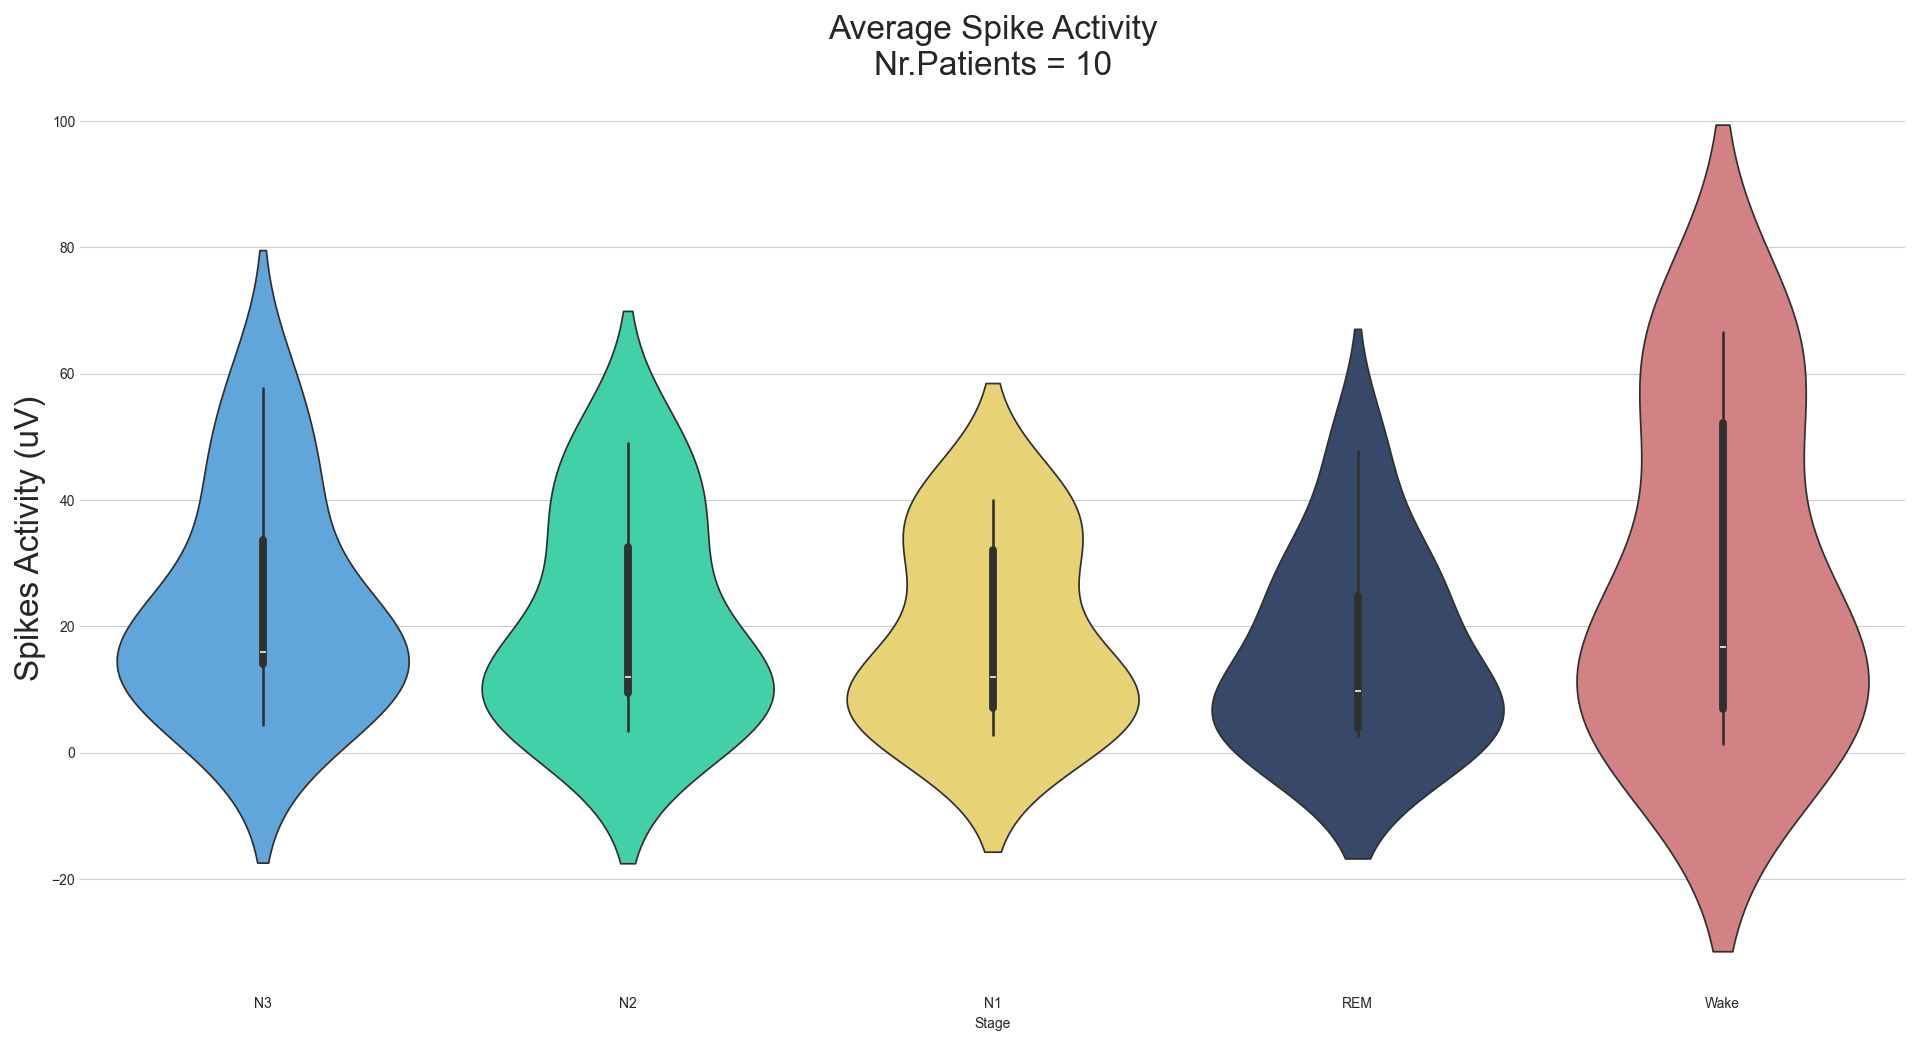
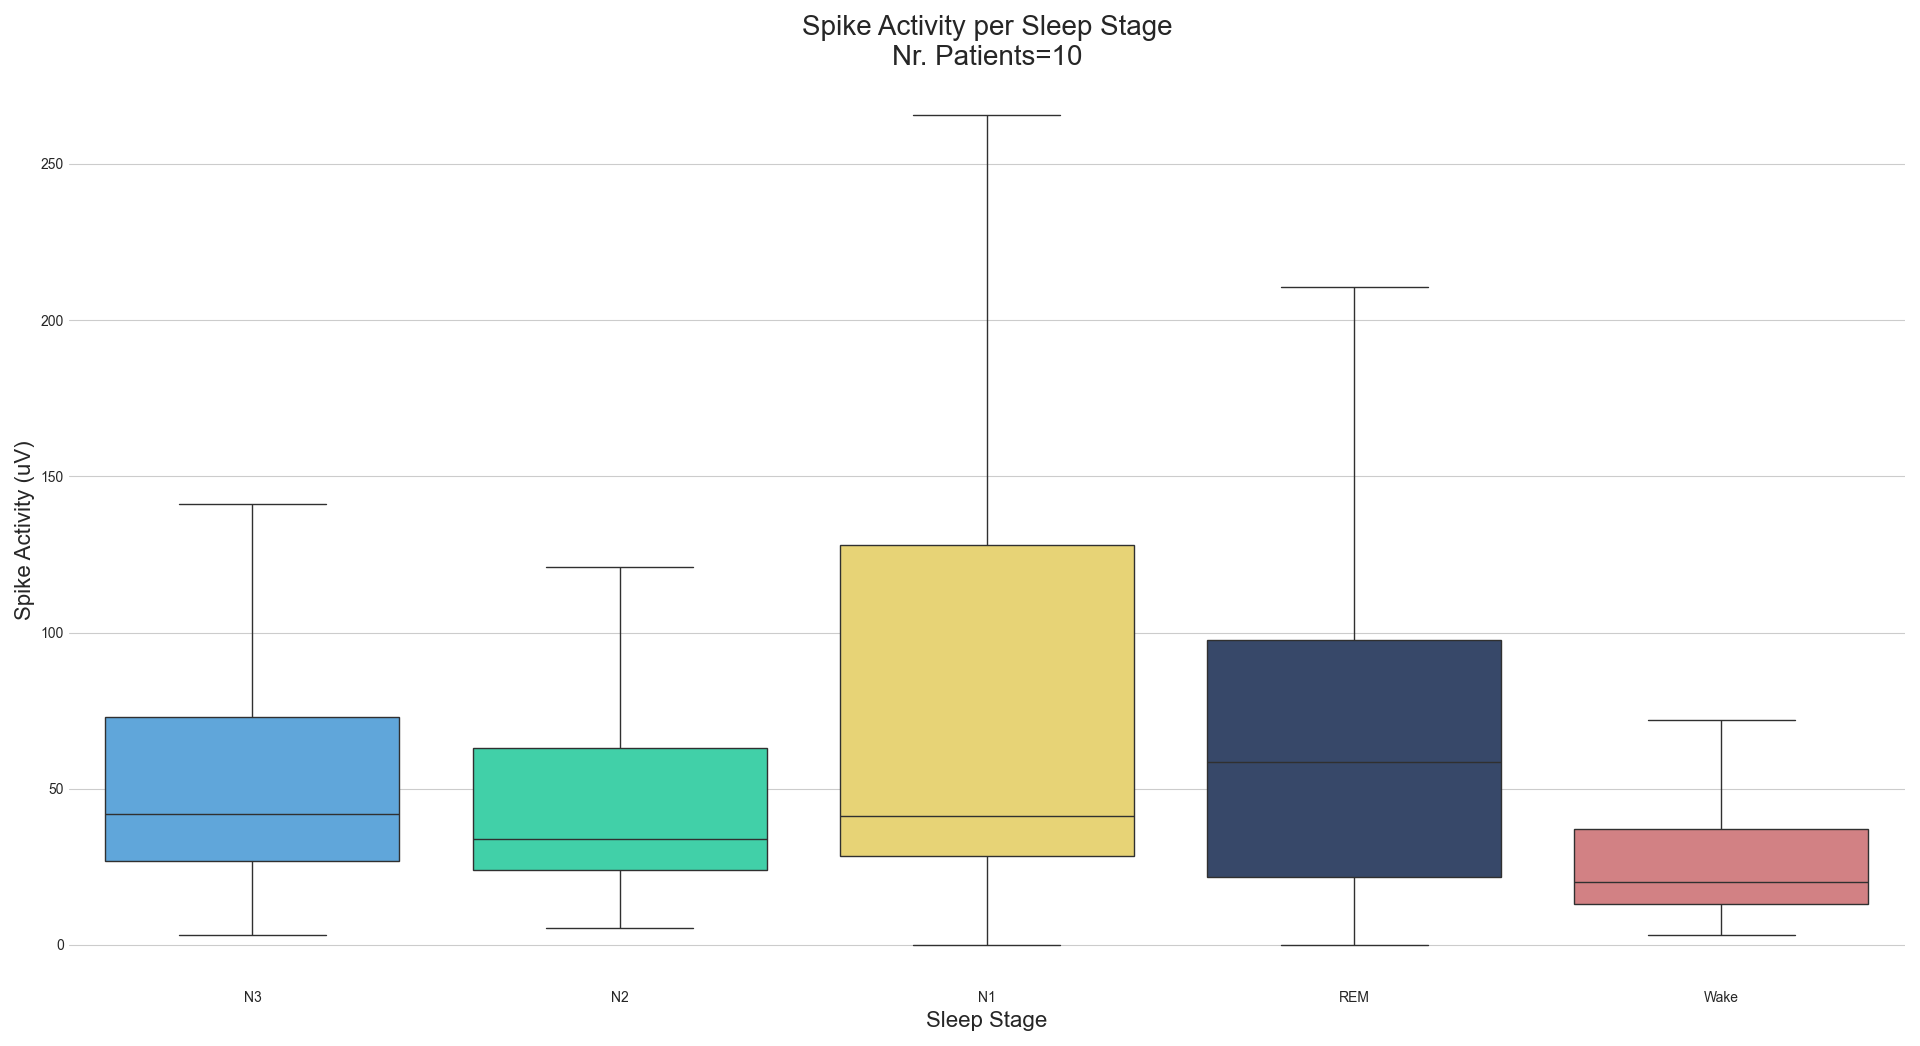
add plots and images for occ.rate and activity

diff --git a/pyeeg_toolbox/persyst/an_ilaes_2025.py b/pyeeg_toolbox/persyst/an_ilaes_2025.py
@@ -34,7 +34,7 @@ class Spike_Activity_Analyzer:
 
     def read_patient_spike_data(self):
         nr_pats = len(self.pats_ls)
-        # Concatenate data from all patients, scale amplitude for each patient
+        # Concatenate data from all patients
         spike_data_df = pd.DataFrame()
         for pdata_fn in self.pats_ls:
             data_fpath = self.characterization_datapath / f"{pdata_fn}_AvgSpikeWdwActivity.csv"
@@ -65,6 +65,24 @@ class Spike_Activity_Analyzer:
         spike_data_df.reset_index(drop=True, inplace=True)
 
         return spike_data_df
+
+    def read_stages_duration_and_spike_rates(self):
+        # Concatenate data from all patients
+        nr_pats = len(self.pats_ls)
+        
+        spike_occ_rate_pats_ls = [pn + "_StageSpikeOccurrenceRate.csv" for pn in self.pats_ls]
+        stage_duration_spike_rate_df = pd.DataFrame()
+        for pdata_fn in spike_occ_rate_pats_ls:
+            data_fpath = stages_spikes_duration_rate_datapath / pdata_fn
+            #print(data_fpath)
+            try:
+                pdata_df = pd.read_csv(data_fpath)
+                stage_duration_spike_rate_df = pd.concat([stage_duration_spike_rate_df, pdata_df])
+            except:
+                print(f"File {pdata_fn} not found")
+
+        stage_duration_spike_rate_df.reset_index(drop=True, inplace=True)
+        return stage_duration_spike_rate_df
 
     def handle_patient_outliers(self, spike_data_df:pd.DataFrame=None):
 
@@ -127,87 +145,6 @@ class Spike_Activity_Analyzer:
         return scaled_spike_data_df
 
 
-    def plot_sleep_stage_durations(pats_ls:list[str]=None, images_output_path:str=None):
-        nr_pats = len(pats_ls)
-        spike_occ_rate_pats_ls = [pn + "_StageSpikeOccurrenceRate.csv" for pn in pats_ls]
-        stage_spike_data = pd.DataFrame()
-        for pdata_fn in spike_occ_rate_pats_ls:
-            data_fpath = stages_spikes_duration_rate_datapath / pdata_fn
-            #print(data_fpath)
-            try:
-                pdata_df = pd.read_csv(data_fpath)
-                stage_spike_data = pd.concat([stage_spike_data, pdata_df])
-            except:
-                print(f"File {pdata_fn} not found")
-
-        #sleep_ref_img_path = Path("C:\\Users\\HFO\\Development\\pyeeg_toolbox\\pyeeg_toolbox\\persyst\\SleepStages_Reference.png")
-        sleep_ref_img_path = os.getcwd()+'/pyeeg_toolbox/persyst/SleepStages_Reference.png'
-        sleep_ref_img= Image.open(sleep_ref_img_path)
-        rsz_ratio = 2
-        img_rsz = (int(sleep_ref_img.size[0]/rsz_ratio), int(sleep_ref_img.size[1]/rsz_ratio))
-        sleep_ref_img = sleep_ref_img.resize(img_rsz)
-
-        fig, axs = plt.subplots(1, 1, figsize=FIGSIZE)
-        
-        to_plot_stage_names = ['N3', 'N2', 'N1', 'REM']
-        sum_stages_dur_mins = []
-        for stage_name in to_plot_stage_names:
-            stage_sel = stage_spike_data.Stage==stage_name
-            assert stage_sel.sum() == nr_pats, "More than one entry per patient"
-            sum_stages_dur_mins.append(stage_spike_data.StageDurM[stage_sel].sum())
-            pass
-
-        to_plot_stages_colors = [self.stages_colors[k] for k in to_plot_stage_names]
-
-        sum_stages_dur_perc = (np.array(sum_stages_dur_mins)/np.sum(sum_stages_dur_mins))*100
-        wedgeprops = {"edgecolor" : "white", 'linewidth': 5, 'antialiased': True}
-        
-        patches, texts, pcts = axs.pie(x=sum_stages_dur_perc, labels=to_plot_stage_names, colors=to_plot_stages_colors, wedgeprops=wedgeprops, autopct='%.0f%%', textprops={'fontsize':24, 'color':"w", 'weight':'bold'}, startangle=-200)
-        for i, patch in enumerate(patches):
-            texts[i].set_color(patch.get_facecolor())
-        axs.set_ylabel("Relative Duration of Sleep Stages (%)", fontsize=24)
-        axs.set_title(f"Proportion of summed duration of Sleep Stages\nNr.Patients = {nr_pats}", fontsize=24, color='black')
-        pass
-        #plt.legend(loc='lower right', fontsize=24)
-
-        # Overlay image on plot
-        im_width, im_height = sleep_ref_img.size
-        bbox = fig.get_window_extent() 
-        fig.figimage(sleep_ref_img, xo=int(bbox.x1-im_width/2), yo=int(bbox.y1-im_height/2), zorder=3, alpha=.7, origin='upper')
-
-        plt.get_current_fig_manager().full_screen_toggle()
-        plt.tight_layout()
-        plt.savefig(images_output_path / "Duration_Of_Sleep_Stages.png")
-        #plt.waitforbuttonpress()
-        plt.close()
-
-
-    def plot_spike_occ_rate(self, spike_data_df:pd.DataFrame=None):
-        nr_pats = len(pats_ls)
-        spike_occ_rate_pats_ls = [pn + "_StageSpikeOccurrenceRate.csv" for pn in pats_ls]
-        stage_spike_data = pd.DataFrame()
-        for pdata_fn in spike_occ_rate_pats_ls:
-            data_fpath = stages_spikes_duration_rate_datapath / pdata_fn
-            #print(data_fpath)
-            try:
-                pdata_df = pd.read_csv(data_fpath)
-                stage_spike_data = pd.concat([stage_spike_data, pdata_df])
-            except:
-                print(f"File {pdata_fn} not found")
-
-        fig, axs = plt.subplots(1, 1, figsize=FIGSIZE)
-        assert nr_pats == len(stage_spike_data.PatID.unique()), "More than one entry per patient"
-        sns.violinplot(data=stage_spike_data, x='Stage', y='SpikeOccRate', hue='Stage', palette=self.stages_colors, ax=axs)
-        axs.set_ylabel("Spikes Activity (uV)", fontsize=24)
-        axs.set_title(f"Average Spike Activity\nNr.Patients = {nr_pats}", fontsize=24)
-
-        plt.get_current_fig_manager().full_screen_toggle()
-        plt.tight_layout()
-        plt.savefig(images_output_path / "Average_Spike_Activity.png")
-        #plt.waitforbuttonpress()
-        plt.close()
-
-
     def hypothesis_test_soz_vs_nonsoz(self, spike_data_df:pd.DataFrame=None):
 
         nr_pats = len(spike_data_df.Patient.unique())
@@ -240,7 +177,7 @@ class Spike_Activity_Analyzer:
         plt.get_current_fig_manager().full_screen_toggle()
         plt.suptitle(f"Spike Activity in SOZ vs. Non-SOZ\nNr. Patients={nr_pats}")
         plt.tight_layout()
-        plt.savefig(images_output_path / "Spike_Activity_SOZ_vs_NonSOZ_Hypothesis_Tests.png")
+        plt.savefig(self.images_output_path / "Spike_Activity_SOZ_vs_NonSOZ_Hypothesis_Tests.png")
         #plt.waitforbuttonpress()
         plt.close()
 
@@ -355,23 +292,105 @@ class Spike_Activity_Analyzer:
         plt.get_current_fig_manager().full_screen_toggle()
         plt.suptitle(f"Prediction of SOZ\nNr. Patients={nr_pats}")
         plt.tight_layout()
-        plt.savefig(images_output_path / "SOZ_Prediction.png")
+        plt.savefig(self.images_output_path / "SOZ_Prediction.png")
         #plt.waitforbuttonpress()
         plt.close()
 
         return prediction_results_df
 
+
+    def plot_per_stage_spike_activity(self, spike_data_df:pd.DataFrame=None):
+        
+        spike_data_df_plot = spike_data_df.copy() 
+        spike_data_df_plot.loc[:, 'Amplitude'] = spike_data_df_plot.Amplitude.values*1000*1000 # convert to uV
+        nr_pats = len(spike_data_df.Patient.unique())
+
+        box_plot = sns.boxplot(data=spike_data_df_plot, x='Stage', y='Amplitude', hue='Stage', palette=self.stages_colors, showfliers=False)
+        plt.ylabel("Spike Activity (uV)", fontsize=16)
+        plt.xlabel("Sleep Stage", fontsize=16)
+        plt.title(f"Spike Activity per Sleep Stage\nNr. Patients={nr_pats}", fontsize=20)
+ 
+        plt.get_current_fig_manager().full_screen_toggle()
+        plt.tight_layout()
+        plt.savefig(self.images_output_path / "Average_Spike_Activity.png")
+        #plt.waitforbuttonpress()
+        plt.close()
+
+        pass
+
+
+
+    def plot_sleep_stage_durations(self, stage_duration_spike_rate_df:pd.DataFrame=None):
+        nr_pats = len(stage_duration_spike_rate_df.PatID.unique())
+
+        #sleep_ref_img_path = Path("C:\\Users\\HFO\\Development\\pyeeg_toolbox\\pyeeg_toolbox\\persyst\\SleepStages_Reference.png")
+        sleep_ref_img_path = os.getcwd()+'/pyeeg_toolbox/persyst/SleepStages_Reference.png'
+        sleep_ref_img= Image.open(sleep_ref_img_path)
+        rsz_ratio = 2
+        img_rsz = (int(sleep_ref_img.size[0]/rsz_ratio), int(sleep_ref_img.size[1]/rsz_ratio))
+        sleep_ref_img = sleep_ref_img.resize(img_rsz)
+
+        fig, axs = plt.subplots(1, 1, figsize=FIGSIZE)
+        
+        to_plot_stage_names = ['N3', 'N2', 'N1', 'REM']
+        sum_stages_dur_mins = []
+        for stage_name in to_plot_stage_names:
+            stage_sel = stage_duration_spike_rate_df.Stage==stage_name
+            assert stage_sel.sum() == nr_pats, "More than one entry per patient"
+            sum_stages_dur_mins.append(stage_duration_spike_rate_df.StageDurM[stage_sel].sum())
+            pass
+
+        to_plot_stages_colors = [self.stages_colors[k] for k in to_plot_stage_names]
+
+        sum_stages_dur_perc = (np.array(sum_stages_dur_mins)/np.sum(sum_stages_dur_mins))*100
+        wedgeprops = {"edgecolor" : "white", 'linewidth': 5, 'antialiased': True}
+        
+        patches, texts, pcts = axs.pie(x=sum_stages_dur_perc, labels=to_plot_stage_names, colors=to_plot_stages_colors, wedgeprops=wedgeprops, autopct='%.0f%%', textprops={'fontsize':24, 'color':"w", 'weight':'bold'}, startangle=-200)
+        for i, patch in enumerate(patches):
+            texts[i].set_color(patch.get_facecolor())
+        axs.set_ylabel("Relative Duration of Sleep Stages (%)", fontsize=24)
+        axs.set_title(f"Proportion of summed duration of Sleep Stages\nNr.Patients = {nr_pats}", fontsize=24, color='black')
+        pass
+        #plt.legend(loc='lower right', fontsize=24)
+
+        # Overlay image on plot
+        im_width, im_height = sleep_ref_img.size
+        bbox = fig.get_window_extent() 
+        fig.figimage(sleep_ref_img, xo=int(bbox.x1-im_width/2), yo=int(bbox.y1-im_height/2), zorder=3, alpha=.7, origin='upper')
+
+        plt.get_current_fig_manager().full_screen_toggle()
+        plt.tight_layout()
+        plt.savefig(self.images_output_path / "Duration_Of_Sleep_Stages.png")
+        #plt.waitforbuttonpress()
+        plt.close()
+
+    def plot_spike_occ_rate(self, stage_duration_spike_rate_df:pd.DataFrame=None):
+        nr_pats = len(stage_duration_spike_rate_df.PatID.unique())
+
+        fig, axs = plt.subplots(1, 1, figsize=FIGSIZE)
+        assert nr_pats == len(stage_duration_spike_rate_df.PatID.unique()), "More than one entry per patient"
+        sns.violinplot(data=stage_duration_spike_rate_df, x='Stage', y='SpikeOccRate', hue='Stage', palette=self.stages_colors, ax=axs)
+        axs.set_ylabel("Spikes Activity (uV)", fontsize=24)
+        axs.set_title(f"Average Spike Activity\nNr.Patients = {nr_pats}", fontsize=24)
+
+        plt.get_current_fig_manager().full_screen_toggle()
+        plt.tight_layout()
+        plt.savefig(self.images_output_path / "Average_Spike_OccRate.png")
+        #plt.waitforbuttonpress()
+        plt.close()
+
 if __name__ == "__main__":
 
+    # Predict SOZ based on Spike Activity
     studies_ls =  [ACH_Pediatric_Patients(), fr_ILAES2025_patients()] # ACH_Pediatric_Patients, fr_ILAES2025_patients
     prediction_results_ls = []
     for study in studies_ls:
         print(f"Study: {study.dataset_name}")
         if 'freiburg' in str(study.eeg_data_path).lower():
-            images_output_path = Path(os.getcwd()) / "Images_Output"
+            images_opath = Path(os.getcwd()) / "Images_Output"
         else:
-            images_output_path = Path(os.getcwd()) / "Images_Output_Pediatric"
-        os.makedirs(images_output_path, exist_ok=True)
+            images_opath = Path(os.getcwd()) / "Images_Output_Pediatric"
+        os.makedirs(images_opath, exist_ok=True)
 
         pats_ls = list(study.patients.keys())
 
@@ -383,16 +402,21 @@ if __name__ == "__main__":
         for k,v in stages_colors.items():
             stages_colors[k] = (v[0]/255, v[1]/255, v[2]/255)
 
-        spike_analyzer = Spike_Activity_Analyzer(characterization_datapath, stages_spikes_duration_rate_datapath, pats_ls, sleep_stages_ls, stages_colors, images_output_path)
+        spike_analyzer = Spike_Activity_Analyzer(characterization_datapath, stages_spikes_duration_rate_datapath, pats_ls, sleep_stages_ls, stages_colors, images_opath)
 
         spike_data_df = spike_analyzer.read_patient_spike_data()
+        spike_analyzer.plot_per_stage_spike_activity(spike_data_df)
+
         spike_data_df = spike_analyzer.handle_patient_outliers(spike_data_df)
         spike_data_df = spike_analyzer.get_patient_scaled_spike_data(spike_data_df)
 
         spike_analyzer.hypothesis_test_soz_vs_nonsoz(spike_data_df)
         prediction_results_df = spike_analyzer.predict_soz_with_spike_occ_rate(spike_data_df)
-
         prediction_results_ls.append(prediction_results_df)
+
+        stage_duration_spike_rate_df = spike_analyzer.read_stages_duration_and_spike_rates()
+        spike_analyzer.plot_sleep_stage_durations(stage_duration_spike_rate_df)
+        spike_analyzer.plot_spike_occ_rate(stage_duration_spike_rate_df)
 
     for i, study in enumerate(studies_ls):
         print(f"\n\nStudy: {study.dataset_name}")
@@ -407,5 +431,3 @@ if __name__ == "__main__":
         # print('Std_MCC')
         # print(prediction_results_df[prediction_results_df.Metric=='MCC'][['Stage', 'Value']].groupby(['Stage']).std())
 
-        #spike_analyzer.plot_spike_occ_rate(spike_data_df)
-        #plot_sleep_stage_durations(pats_ls, images_output_path)
